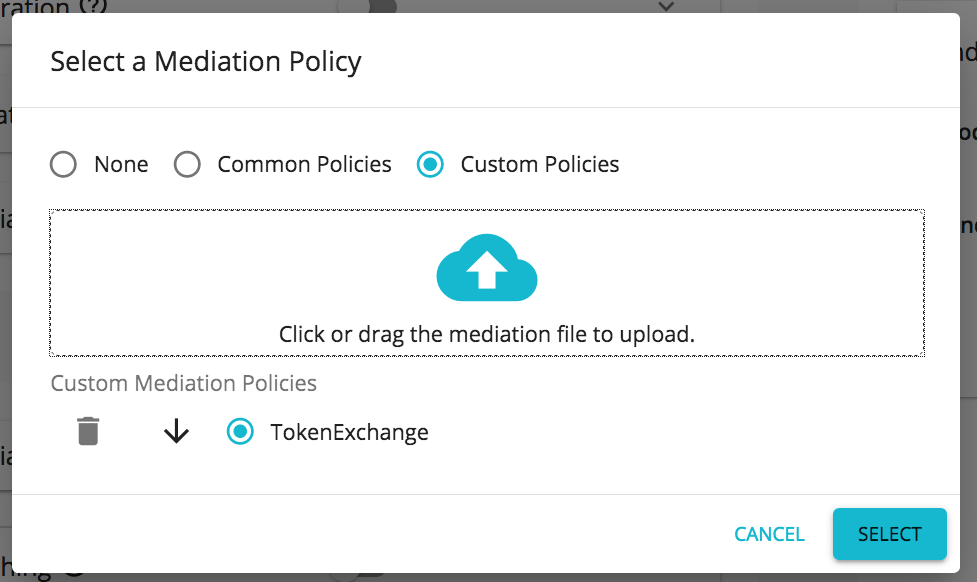
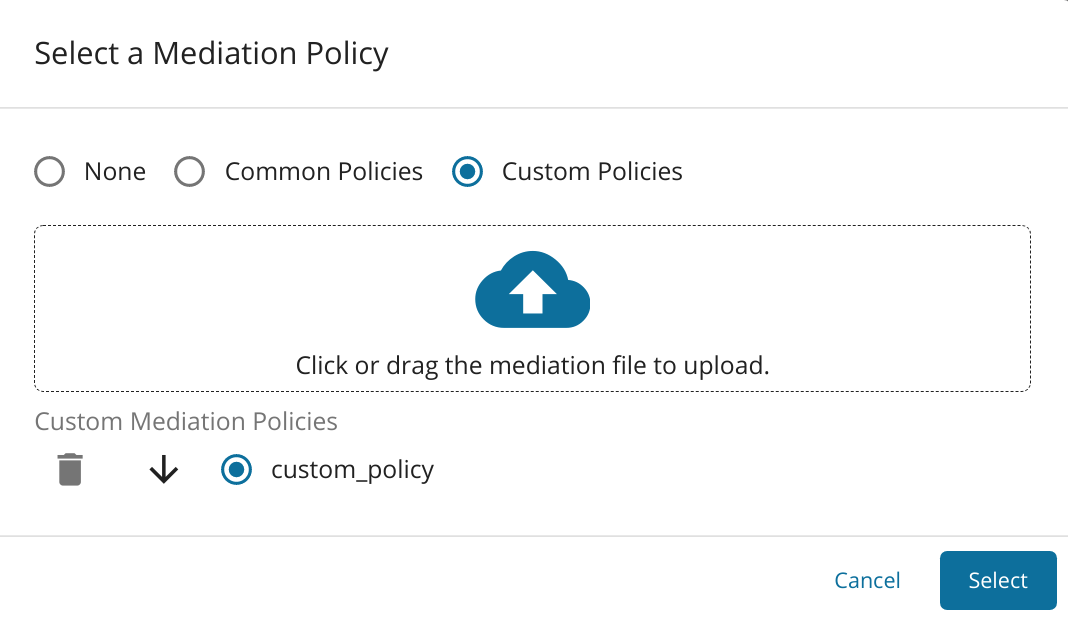
Update screenshots of Custom Authorization and Disable Message Chunking

Changed region(s): [[0.0, 0.0, 1.0, 1.0], [0.2764, 0.4021, 0.7369, 0.6186], [0.0614, 0.3402, 0.9519, 0.3711]]

diff --git a/en/docs/deploy-and-publish/deploy-on-gateway/api-gateway/message-mediation/disabling-message-chunking.md b/en/docs/deploy-and-publish/deploy-on-gateway/api-gateway/message-mediation/disabling-message-chunking.md
@@ -4,7 +4,7 @@ When processing large messages, message chunking facilitates sending the message
 Message chunking is set using the `Transfer-Encoding: chunked` header. However, some legacy backends might not support 
 chunked messages. To disable sending chunked messages to the backend for a specific API, follow the steps below:
 
-1.  Go to the created API and from the Left Menu, go to **Runtime Configurations**.
+1.  Go to the created API and from the Left Menu, go to **API Configurations** --> **Runtime**.
 2.  Click [![]({{base_path}}/assets/img/learn/api-gateway/message-mediation/edit-button.png)]({{base_path}}/assets/img/learn/api-gateway/message-mediation/edit-button.png) button in the **Message Mediation** under the **Request** section.      
   
     [![]({{base_path}}/assets/img/learn/api-gateway/message-mediation/edit-mediation.png)]({{base_path}}/assets/img/learn/api-gateway/message-mediation/edit-mediation.png)  
